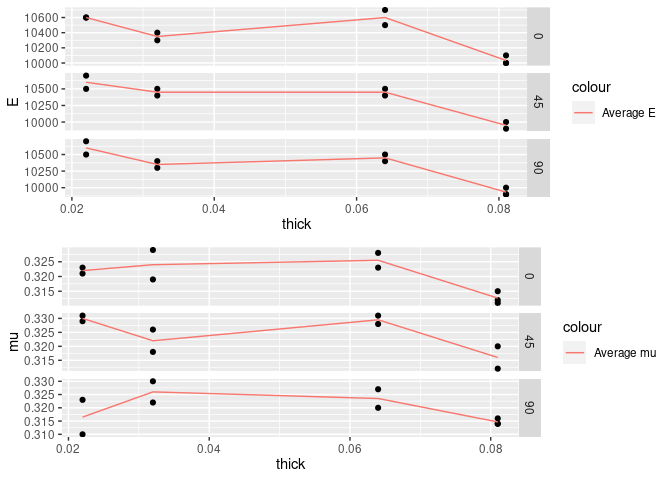
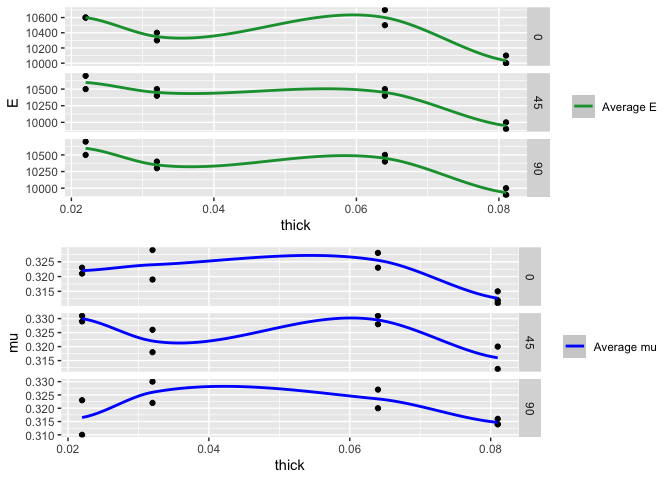
Revise Challenge 3
- Point 1. I changed the filtering condition from q1 from E > 0 | mu > 0 to E > 0 & mu > 0.
- Point 2. I added a table that shows the range of E and mu for each value of thickness to show that there is no absolute value for material property of aluminum as there’s a range of values even at same thicknesses. I also added tables that show distinct values of alloy, angle, and thickness to show the values that were tested.
- Point 3. I’ve changed the wording of the observation from “nonlinear” to monotone.
- Misc 1. I’ve changed the plot to have a smooth line for the average and with different colors for E and mu. I also removed the legend title.

diff --git a/challenges/c03-stang-assignment.md b/challenges/c03-stang-assignment.md
@@ -83,14 +83,16 @@ for more information.
 library(tidyverse)
 ```
 
-    ## ── Attaching packages ─────────────────────────────────────── tidyverse 1.3.2 ──
-    ## ✔ ggplot2 3.4.1     ✔ purrr   1.0.1
-    ## ✔ tibble  3.1.8     ✔ dplyr   1.1.0
-    ## ✔ tidyr   1.3.0     ✔ stringr 1.5.0
-    ## ✔ readr   2.1.4     ✔ forcats 1.0.0
+    ## ── Attaching core tidyverse packages ──────────────────────── tidyverse 2.0.0 ──
+    ## ✔ dplyr     1.1.0     ✔ readr     2.1.4
+    ## ✔ forcats   1.0.0     ✔ stringr   1.5.0
+    ## ✔ ggplot2   3.4.1     ✔ tibble    3.1.8
+    ## ✔ lubridate 1.9.2     ✔ tidyr     1.3.0
+    ## ✔ purrr     1.0.1     
     ## ── Conflicts ────────────────────────────────────────── tidyverse_conflicts() ──
     ## ✖ dplyr::filter() masks stats::filter()
     ## ✖ dplyr::lag()    masks stats::lag()
+    ## ℹ Use the ]8;;http://conflicted.r-lib.org/conflicted package]8;; to force all conflicts to become errors
 
 ``` r
 library(ggpubr)
@@ -168,7 +170,7 @@ df_stang_long <-
     names_sep = "_",
     names_transform = list(angle = as.integer)
   ) %>% 
-  filter(E > 0 | mu > 0)
+  filter(E > 0 & mu > 0)
 df_stang_long
 ```
 
@@ -236,60 +238,62 @@ print("Very good!")
 
 ``` r
 df_stang_long %>% 
-  glimpse %>% 
-  summary 
+  group_by(thick) %>% 
+  reframe(range_E = range(E), range_mu = range(mu))
 ```
 
-    ## Rows: 26
-    ## Columns: 5
-    ## $ thick <dbl> 0.022, 0.022, 0.022, 0.022, 0.022, 0.022, 0.032, 0.032, 0.032, 0…
-    ## $ alloy <chr> "al_24st", "al_24st", "al_24st", "al_24st", "al_24st", "al_24st"…
-    ## $ angle <int> 0, 45, 90, 0, 45, 90, 0, 45, 90, 0, 45, 90, 0, 45, 90, 0, 45, 90…
-    ## $ E     <dbl> 10600, 10700, 10500, 10600, 10500, 10700, 10400, 10400, 10300, 1…
-    ## $ mu    <dbl> 0.321, 0.329, 0.310, 0.323, 0.331, 0.323, 0.329, 0.318, 0.322, 0…
-
-    ##      thick            alloy               angle          E        
-    ##  Min.   :0.02200   Length:26          Min.   : 0   Min.   : 9900  
-    ##  1st Qu.:0.03200   Class :character   1st Qu.: 0   1st Qu.:10025  
-    ##  Median :0.06400   Mode  :character   Median :45   Median :10400  
-    ##  Mean   :0.05215                      Mean   :45   Mean   :10335  
-    ##  3rd Qu.:0.08100                      3rd Qu.:90   3rd Qu.:10500  
-    ##  Max.   :0.08100                      Max.   :90   Max.   :10700  
-    ##        mu        
-    ##  Min.   :0.3100  
-    ##  1st Qu.:0.3152  
-    ##  Median :0.3215  
-    ##  Mean   :0.3212  
-    ##  3rd Qu.:0.3277  
-    ##  Max.   :0.3310
+    ## # A tibble: 8 × 3
+    ##   thick range_E range_mu
+    ##   <dbl>   <dbl>    <dbl>
+    ## 1 0.022   10500    0.31 
+    ## 2 0.022   10700    0.331
+    ## 3 0.032   10300    0.318
+    ## 4 0.032   10500    0.33 
+    ## 5 0.064   10400    0.32 
+    ## 6 0.064   10700    0.331
+    ## 7 0.081    9900    0.311
+    ## 8 0.081   10100    0.32
 
 ``` r
-df_stang_long
+df_stang_long %>% distinct(alloy)
 ```
 
-    ## # A tibble: 26 × 5
-    ##    thick alloy   angle     E    mu
-    ##    <dbl> <chr>   <int> <dbl> <dbl>
-    ##  1 0.022 al_24st     0 10600 0.321
-    ##  2 0.022 al_24st    45 10700 0.329
-    ##  3 0.022 al_24st    90 10500 0.31 
-    ##  4 0.022 al_24st     0 10600 0.323
-    ##  5 0.022 al_24st    45 10500 0.331
-    ##  6 0.022 al_24st    90 10700 0.323
-    ##  7 0.032 al_24st     0 10400 0.329
-    ##  8 0.032 al_24st    45 10400 0.318
-    ##  9 0.032 al_24st    90 10300 0.322
-    ## 10 0.032 al_24st     0 10300 0.319
-    ## # … with 16 more rows
+    ## # A tibble: 1 × 1
+    ##   alloy  
+    ##   <chr>  
+    ## 1 al_24st
+
+``` r
+df_stang_long %>% distinct(angle)
+```
+
+    ## # A tibble: 3 × 1
+    ##   angle
+    ##   <int>
+    ## 1     0
+    ## 2    45
+    ## 3    90
+
+``` r
+df_stang_long %>% distinct(thick)
+```
+
+    ## # A tibble: 4 × 1
+    ##   thick
+    ##   <dbl>
+    ## 1 0.022
+    ## 2 0.032
+    ## 3 0.064
+    ## 4 0.081
 
 **Observations**:
 
 - Is there “one true value” for the material properties of Aluminum?
   - No, even for a given thickness of an alloy at a specific angle, the
-    `E` and `mu` had variations among observations.  
+    `E` and `mu` had variations among observations.
 - How many aluminum alloys are in this dataset? How do you know?
-  - There is only one alloy in the dataset. The value for column `alloy`
-    doesn’t change.
+  - There is only one alloy in the dataset. There is only `al_24st` as a
+    distinct value.
 - What angles were tested?
   - 0, 45, 90 degrees were tested.
 - What thicknesses were tested?
@@ -309,26 +313,34 @@ plot_E <-
     data = df_stang_long,
     mapping = aes(x = thick, y = E)
   ) +
-  geom_line(
+  geom_smooth(
     data = df_stang_long %>% 
       group_by(thick, angle) %>% 
       summarize(mean_E = mean(E)),
     mapping = aes(x = thick, y = mean_E, color = "Average E"),
   ) +
-  facet_grid(angle ~ ., scales = "free_y")
+  facet_grid(angle ~ ., scales = "free_y") +
+  scale_color_manual(values = c("Average E" = '#149D3C')) +
+  theme(
+    legend.title = element_blank()
+  )
 plot_mu <-
   ggplot() +
   geom_point(
     data = df_stang_long,
     mapping = aes(x = thick, y = mu)
   ) +
-  geom_line(
+  geom_smooth(
     data = df_stang_long %>% 
       group_by(thick, angle) %>% 
       summarize(mean_mu = mean(mu)),
     mapping = aes(x = thick, y = mean_mu, color = "Average mu"),
   ) +
-  facet_grid(angle ~ ., scales = "free_y")
+  facet_grid(angle ~ ., scales = "free_y") +
+  scale_color_manual(values = c("Average mu" = 'blue')) +
+  theme(
+    legend.title = element_blank()
+  )
 ggarrange(plot_E, plot_mu, ncol = 1, nrow = 2)
 ```
 
@@ -337,7 +349,7 @@ ggarrange(plot_E, plot_mu, ncol = 1, nrow = 2)
 **Observations**:
 
 - It’s tempting to say that `E` and `mu` decreases as thickness
-  increases. However, the relationship from the plot seems nonlinear and
+  increases. However, the relationship from the plot seems monotone and
   varying according to the angle and the thickness.
 
 ### **q4** Consider the following statement:
